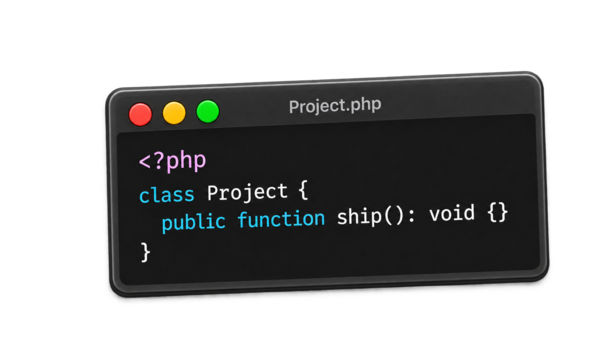
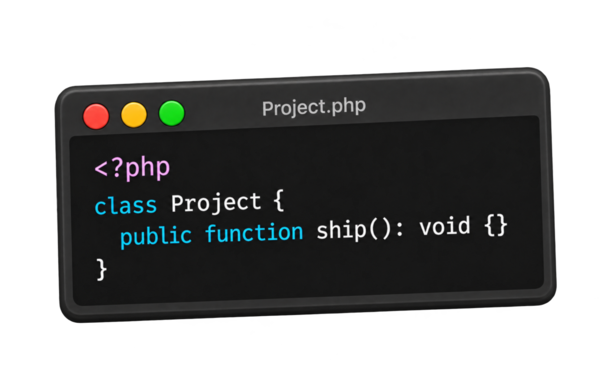
Simplify process notes and soften editor illustration
Amp-Thread-ID: https://ampcode.com/threads/T-01a120f4-92e3-70cd-8590-82afa336076b

Changed region(s): [[0.09, 0.1562, 0.93, 0.875], [0.39, 0.3438, 0.42, 0.375]]

diff --git a/resources/views/front/pages/web-development/partials/about.blade.php b/resources/views/front/pages/web-development/partials/about.blade.php
@@ -20,7 +20,7 @@
 <div id="process" class="mt-16 md:mt-20">
     <div class="process-overview grid md:grid-cols-3">
         <div class="process-card space-y-4">
-            <img class="process-illustration" src="/images/services-process-research.webp" alt="" width="600" height="291">
+            <img class="process-illustration" src="/images/services-process-research.webp" alt="" width="600" height="324">
             <div class="flex items-center gap-3 text-4xl">
                 <span class="font-druk text-oss-purple">01</span>
                 <h3 class="font-druk uppercase text-white leading-tight">Research & Analysis</h3>
@@ -31,7 +31,7 @@
         </div>
 
         <div class="process-card space-y-4">
-            <img class="process-illustration" src="/images/services-process-foundation.webp" alt="" width="600" height="352">
+            <img class="process-illustration" src="/images/services-process-foundation.webp" alt="" width="600" height="368">
             <div class="flex items-center gap-3 text-4xl">
                 <span class="font-druk text-oss-purple">02</span>
                 <h3 class="font-druk uppercase text-white leading-tight">Build a Strong Foundation</h3>
